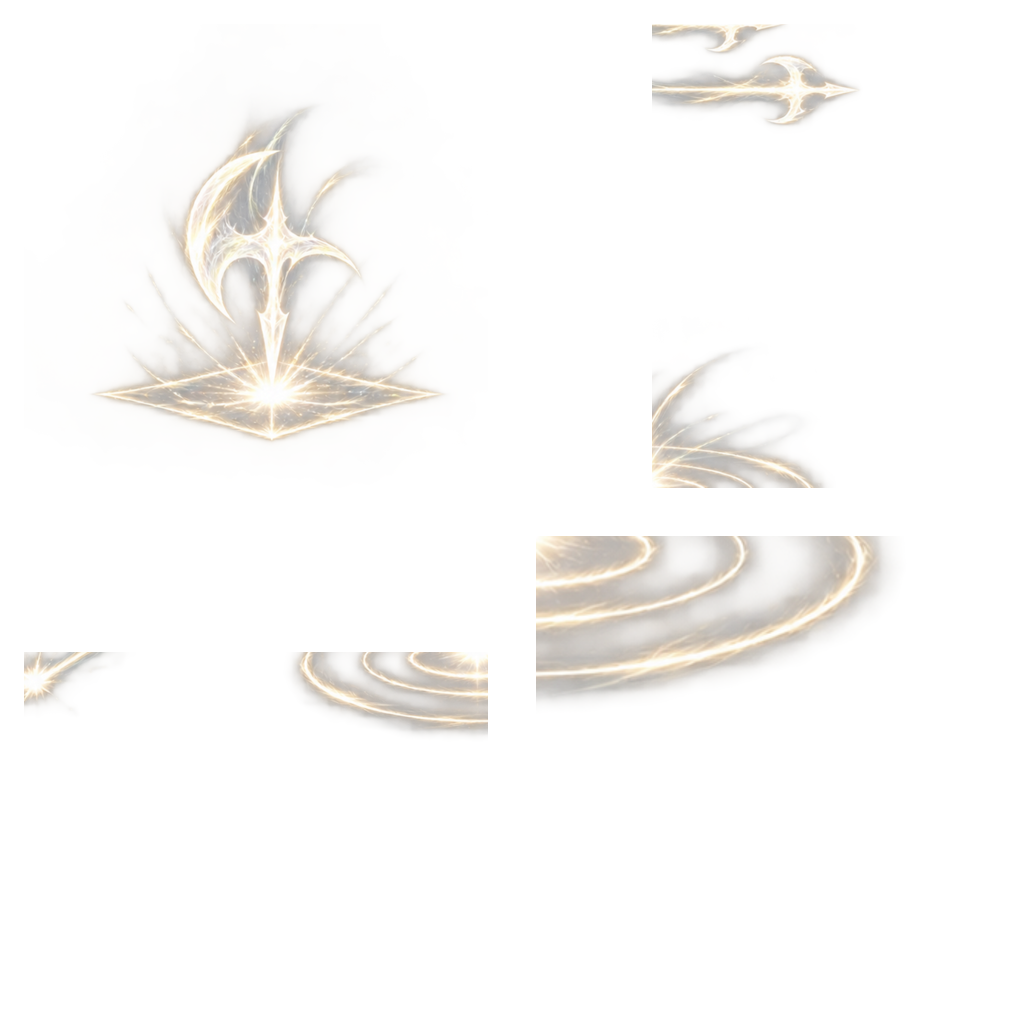
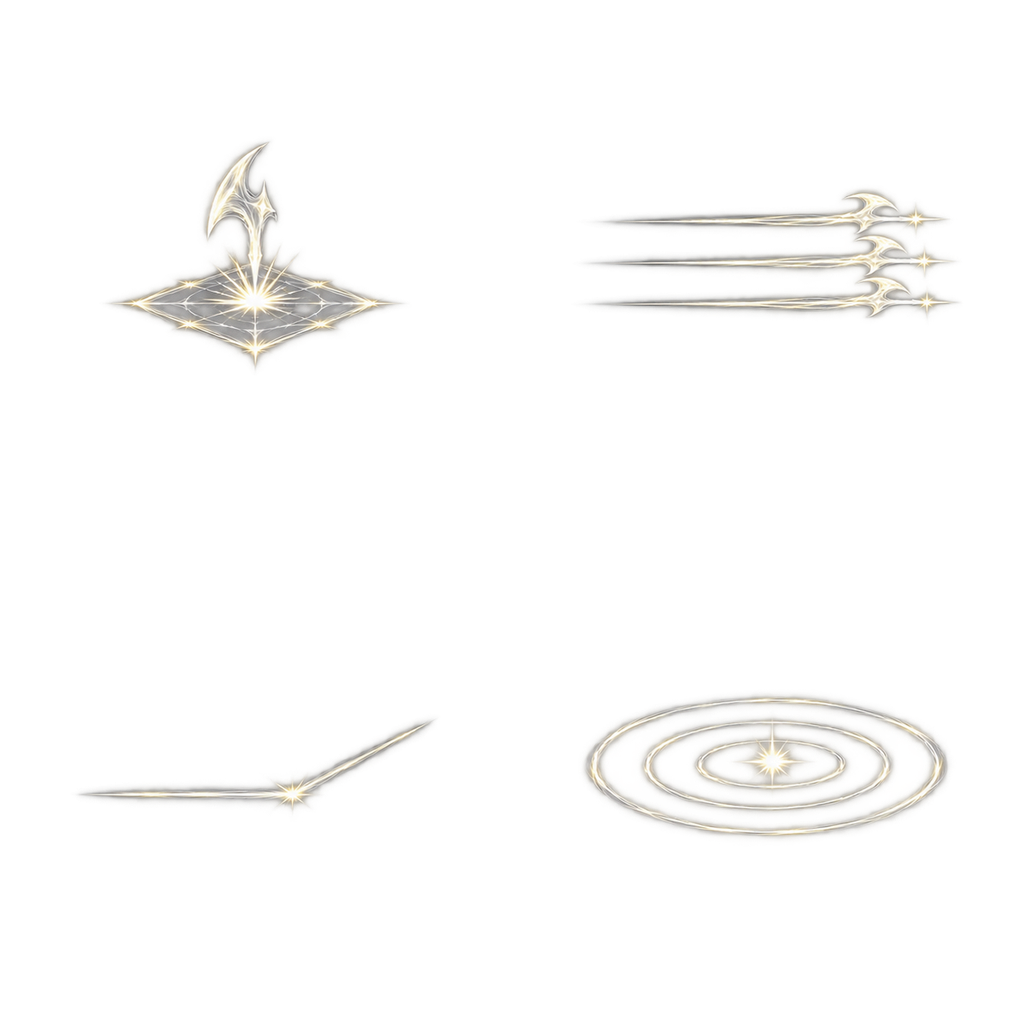
[팀장] 13차 스킬 이펙트 15장 완료 (02·15 다시 그림, 미리보기)
Claude-Session: https://claude.ai/code/session_013M9CK2TidfikPKvmdBTiuk

diff --git a/teams/2-디자인/gpt-art/round13/result-02.md b/teams/2-디자인/gpt-art/round13/result-02.md
@@ -1,3 +1,3 @@
-[sheet-02.png](/home/user/poki-game/teams/2-디자인/gpt-art/round13/sheet-02.png)에 02번 시트의 이펙트 네 개를 저장했습니다. 1024×1024 투명 PNG이며, 각 512×512 칸의 가장자리 24px가 완전히 투명한 것을 확인했습니다. 크기와 투명 여부는 [result-02.md](/home/user/poki-game/teams/2-디자인/gpt-art/round13/result-02.md)에 기록했습니다.
+[sheet-02.png](/home/user/poki-game/teams/2-디자인/gpt-art/round13/sheet-02.png)를 저장했습니다. 1024×1024 투명 PNG이며, 네 이펙트를 각각 512×512 칸 중앙에 배치했습니다. 모든 칸의 가장자리에 최소 59px의 완전 투명 여백이 있는 것을 확인했습니다.
 
-내장 이미지 생성기로 첨부의 흰색·은색·옅은 금색 빛 표현을 참고해 미늘창 덫, 오른쪽으로 뻗는 미늘창 찌르기 3줄, 한 번 꺾이는 에너지 빔, 고리 3겹의 에너지 파동을 그렸습니다. 저장할 때 원본 크기를 조정하고 옅은 배경 잔광을 줄였습니다.
+첨부 이미지는 그림체와 색 참고로 사용했습니다. ImageGen으로 미늘창 덫, 미늘창 연속 찌르기, 한 번 꺾이는 에너지 빔, 세 겹 타원 고리의 에너지 파동을 생성한 뒤 크기와 위치를 맞췄습니다.

diff --git a/teams/2-디자인/gpt-art/round13/result-15.md b/teams/2-디자인/gpt-art/round13/result-15.md
@@ -1,0 +1,3 @@
+[sheet-15.png](/home/user/poki-game/teams/2-디자인/gpt-art/round13/sheet-15.png)에 시트 15의 네 이펙트를 저장했습니다. 좌상단부터 독수리 일격, 독수리 날개 베기, 함성, 잔상 돌격 순서입니다.
+
+이미지 생성본을 1024×1024로 맞추고 흰색·은색 `#C9CED6`·옅은 금색 `#E8D9A8` 세 색으로 정리했습니다. 각 512×512 칸의 사방 24px 여백이 완전히 투명하고, 검정 픽셀이 없음을 확인했습니다.
